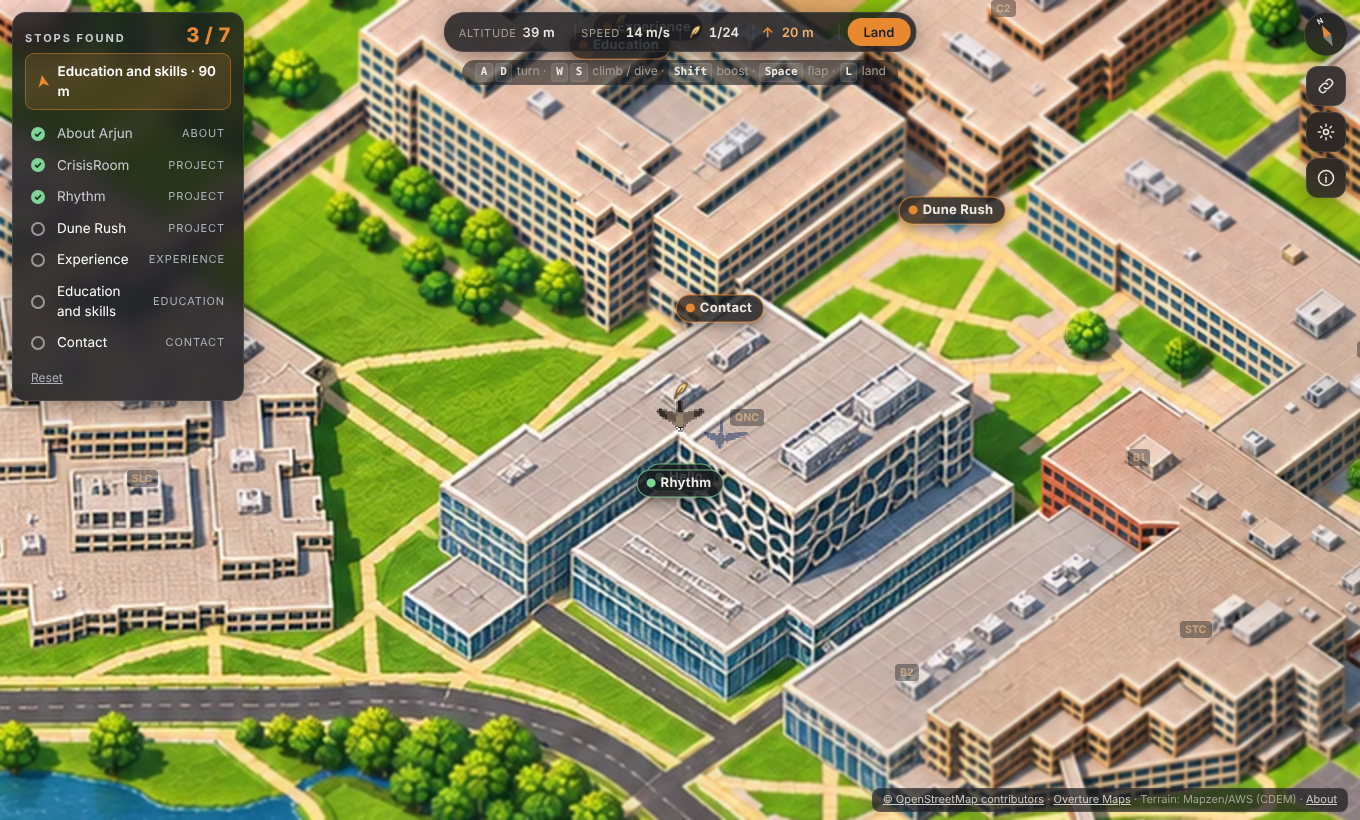
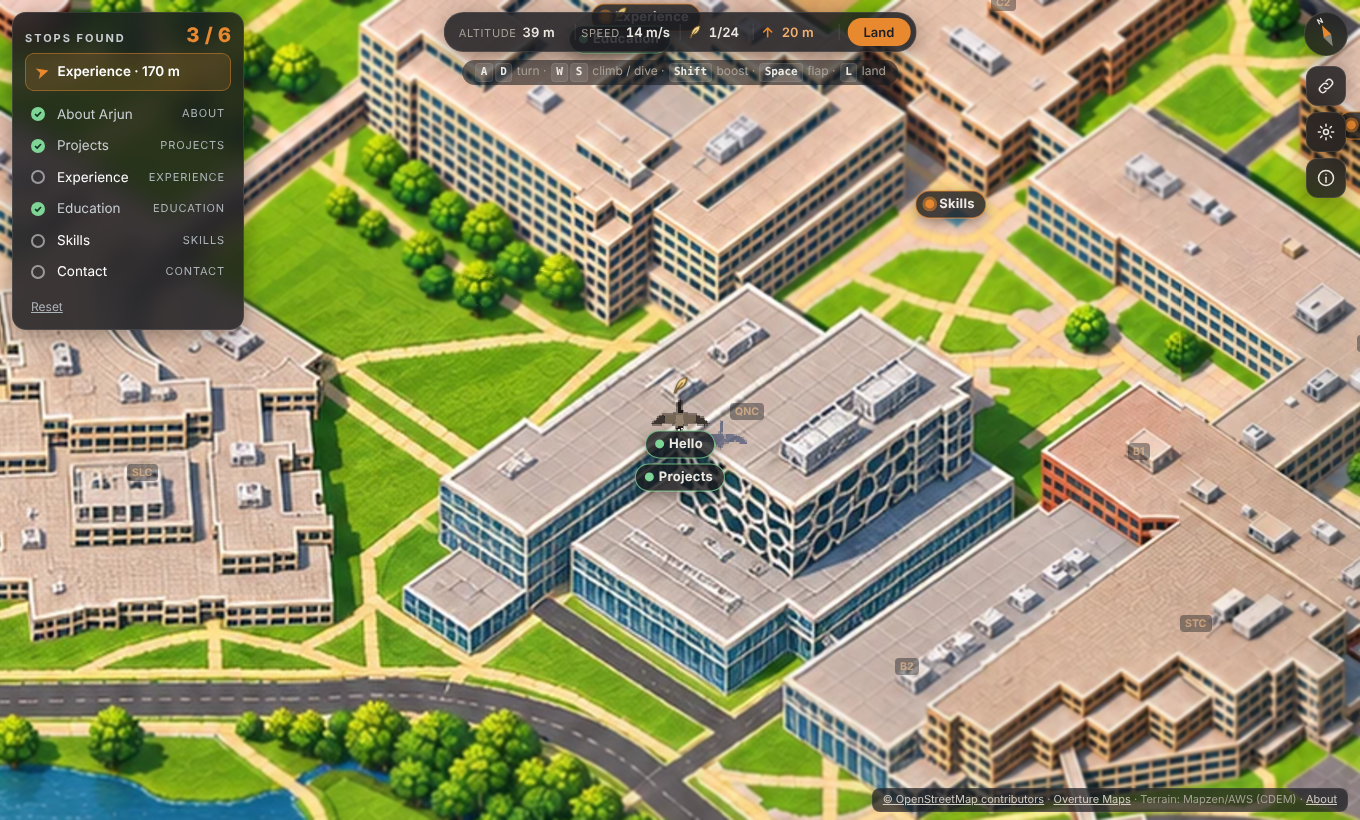
Portfolio game: one Projects stop with all three projects; Education and Skills as separate stops
Claude-Session: https://claude.ai/code/session_01VqAdQDSSPKBnYjiqgKN3n5

diff --git a/web/src/map/widgets/landmarks.ts b/web/src/map/widgets/landmarks.ts
@@ -23,12 +23,18 @@ export function createLandmarks(map: MapAPI, landmarks: Landmark[], actor: Actor
     const nodes: (Node | null)[] = [
       h('p', { class: 'chips' }, h('span', { class: 'chip' }, l.category), p.award ? h('span', { class: 'chip ok' }, p.award) : null),
       p.meta ? h('p', { class: 'muted' }, p.meta) : null,
-      p.image ? h('img', { class: 'stop-image', src: p.image, alt: p.imageAlt ?? '', loading: 'lazy' }) : null,
       h('p', {}, l.description),
       (l.facts?.length ? h('ul', { class: 'stop-facts' }, ...l.facts.map((f) => h('li', {}, f))) : null),
       (p.tech?.length ? h('p', { class: 'chips' }, ...p.tech.map((t) => h('span', { class: 'chip code' }, t))) : null),
-      h('ul', { class: 'sources' }, ...p.links.map((s) => h('li', {},
-        h('a', { href: s.url, target: s.url.startsWith('mailto:') ? '_self' : '_blank', rel: 'noopener noreferrer' }, s.label, icon('external'))))),
+      ...(p.sections ?? []).map((sec) => h('section', { class: 'stop-section' },
+        h('h3', {}, sec.title),
+        sec.award ? h('p', { class: 'chips' }, h('span', { class: 'chip ok' }, sec.award)) : null,
+        sec.meta ? h('p', { class: 'muted' }, sec.meta) : null,
+        sec.text ? h('p', {}, sec.text) : null,
+        sec.tech?.length ? h('p', { class: 'chips' }, ...sec.tech.map((t) => h('span', { class: 'chip code' }, t))) : null,
+        sec.link ? h('p', { class: 'stop-link' }, h('a', { href: sec.link.url, target: '_blank', rel: 'noopener noreferrer' }, sec.link.label, icon('external'))) : null)),
+      (p.links.length ? h('ul', { class: 'sources' }, ...p.links.map((s) => h('li', {},
+        h('a', { href: s.url, target: s.url.startsWith('mailto:') ? '_self' : '_blank', rel: 'noopener noreferrer' }, s.label, icon('external'))))) : null),
       h('button', {
         class: 'btn primary', type: 'button',
         onclick: () => { panels.close(); actor.start({ cx: l.canvas[0], cy: l.canvas[1] }).catch((e) => map.toast(`Could not start flight: ${e?.message ?? e}`)); },

diff --git a/web/src/portfolio/game.ts b/web/src/portfolio/game.ts
@@ -42,7 +42,7 @@ export function startPortfolioGame(map: MapAPI, actor: ActorModule, stops: Landm
       h('p', { class: 'title-kicker' }, 'An interactive portfolio'),
       h('h1', { id: 'title-name' }, 'Arjun Behl'),
       h('p', { class: 'title-tag' }, 'I build software and AI-powered tools.'),
-      h('p', { class: 'title-sub' }, `Fly a goose over the University of Waterloo campus and find the ${stops.length} stops: three projects, experience, education and how to reach me.`),
+      h('p', { class: 'title-sub' }, `Fly a goose over the University of Waterloo campus and find the ${stops.length} stops: my projects, experience, education, skills and how to reach me.`),
       startBtn,
       found.size ? h('p', { class: 'title-progress' }, `${found.size} of ${stops.length} stops found so far`) : null,
       h('p', { class: 'title-keys' }, h('kbd', {}, 'W A S D'), ' or arrows steer  ', h('kbd', {}, 'Shift'), ' faster  ', h('kbd', {}, 'Space'), ' flap  ', h('kbd', {}, 'L'), ' land and read a stop'),

diff --git a/web/src/types.ts b/web/src/types.ts
@@ -48,7 +48,11 @@ export interface Landmark {
   height_source: string;                     // osm_height | osm_levels (approx) | ms_ml_height (estimate) | class_default (approx)
   status: 'covered' | 'pending';
   /** Portfolio stop (portfolio mode, ?portfolio=1): shown with a portfolio card instead of the landmark card. */
-  portfolio?: { award?: string; meta?: string; tech?: string[]; links: { label: string; url: string }[]; image?: string; imageAlt?: string };
+  portfolio?: {
+    award?: string; meta?: string; tech?: string[]; links: { label: string; url: string }[];
+    /** Sub-entries shown as their own blocks in the card (the three projects of the Projects stop; skill groups). */
+    sections?: { title: string; award?: string; meta?: string; text?: string; tech?: string[]; link?: { label: string; url: string } }[];
+  };
 }
 
 /** One named building label (web/public/data/labels.json, built by pipeline/build_labels.py). */

diff --git a/web/src/style.css b/web/src/style.css
@@ -249,3 +249,7 @@ kbd { font: 11.5px var(--mono); padding: 1px 6px; border-radius: 5px; border: 1p
 .stop-image { display: block; width: 100%; height: auto; border-radius: 8px; margin: 8px 0 12px; border: 1px solid rgba(255, 255, 255, 0.12); }
 .stop-facts { margin: 6px 0 12px; padding-left: 18px; }
 .stop-facts li { margin: 3px 0; }
+.stop-section { border-top: 1px solid rgba(255, 255, 255, 0.14); padding-top: 12px; margin-top: 12px; }
+.stop-section h3 { margin: 0 0 6px; font-size: 17px; }
+.stop-section p { margin: 0 0 8px; }
+.stop-link a { font-weight: 600; }

diff --git a/BUILD_STATUS.md b/BUILD_STATUS.md
@@ -144,7 +144,7 @@ Five reviewers covered projection maths, loading and memory, UI, the art workflo
 
 - **Only the illustrated area is shown.** The viewer no longer loads the city-wide coverage plan, so there are no hatched "coming soon" areas, no dashed city boundary, and panning stops at the 55 painted tiles. Landmarks outside them are not listed.
 - **Campus art fixes.** Eight repaint overlays around the two core campus tiles (seven border joins and the purple parking lots), generated through the ElevenLabs connector with `gpt-image-2.5-sunburst` at 2048 px and checked by `pipeline/art_overlay.py` (worst shift 0.17 px, structure agreement ≥ 0.97). See `docs/ART_PIPELINE.md` and `art/overlays.json`.
-- **Portfolio game.** `web/portfolio.html` is a full-screen game on the campus map: title screen, goose flight, seven stops to find, a tracker with a pointer to the next stop, and saved progress. Project cards carry text and a GitHub link only; no project screenshots are used. `tests/portfolio_check.cjs`: 11/11.
+- **Portfolio game.** `web/portfolio.html` is a full-screen game on the campus map: title screen, goose flight, six stops to find (About, Projects, Experience, Education, Skills, Contact), a tracker with a pointer to the next stop, and saved progress. Project cards carry text and a GitHub link only; no project screenshots are used. `tests/portfolio_check.cjs`: 11/11.
 - Not checked from this environment: external links other than GitHub (LinkedIn, Devpost) are blocked by the network policy here. Nothing is deployed.
 
 ## Inferred or approximate geometry (labelled in the data)

diff --git a/README.md b/README.md
@@ -35,7 +35,7 @@ Useful URL forms:
 ## Portfolio game (web/portfolio.html)
 
 `web/portfolio.html` is Arjun Behl's portfolio as a game on this map. A title screen opens over the live campus; the
-visitor flies the goose to seven **stops** (three projects, experience, education, about, contact) placed on campus
+visitor flies the goose to six **stops** (About, Projects, Experience, Education, Skills, Contact) placed on campus
 buildings (`web/public/data/portfolio_stops.json`). Flying over a stop finds it, landing beside it opens its card, a
 tracker shows progress and points to the next stop, and progress is kept in the browser. Project cards carry text and a
 GitHub link only. The code is the map app in portfolio mode (`web/src/portfolio/game.ts`). Run `npm run dev` and open
